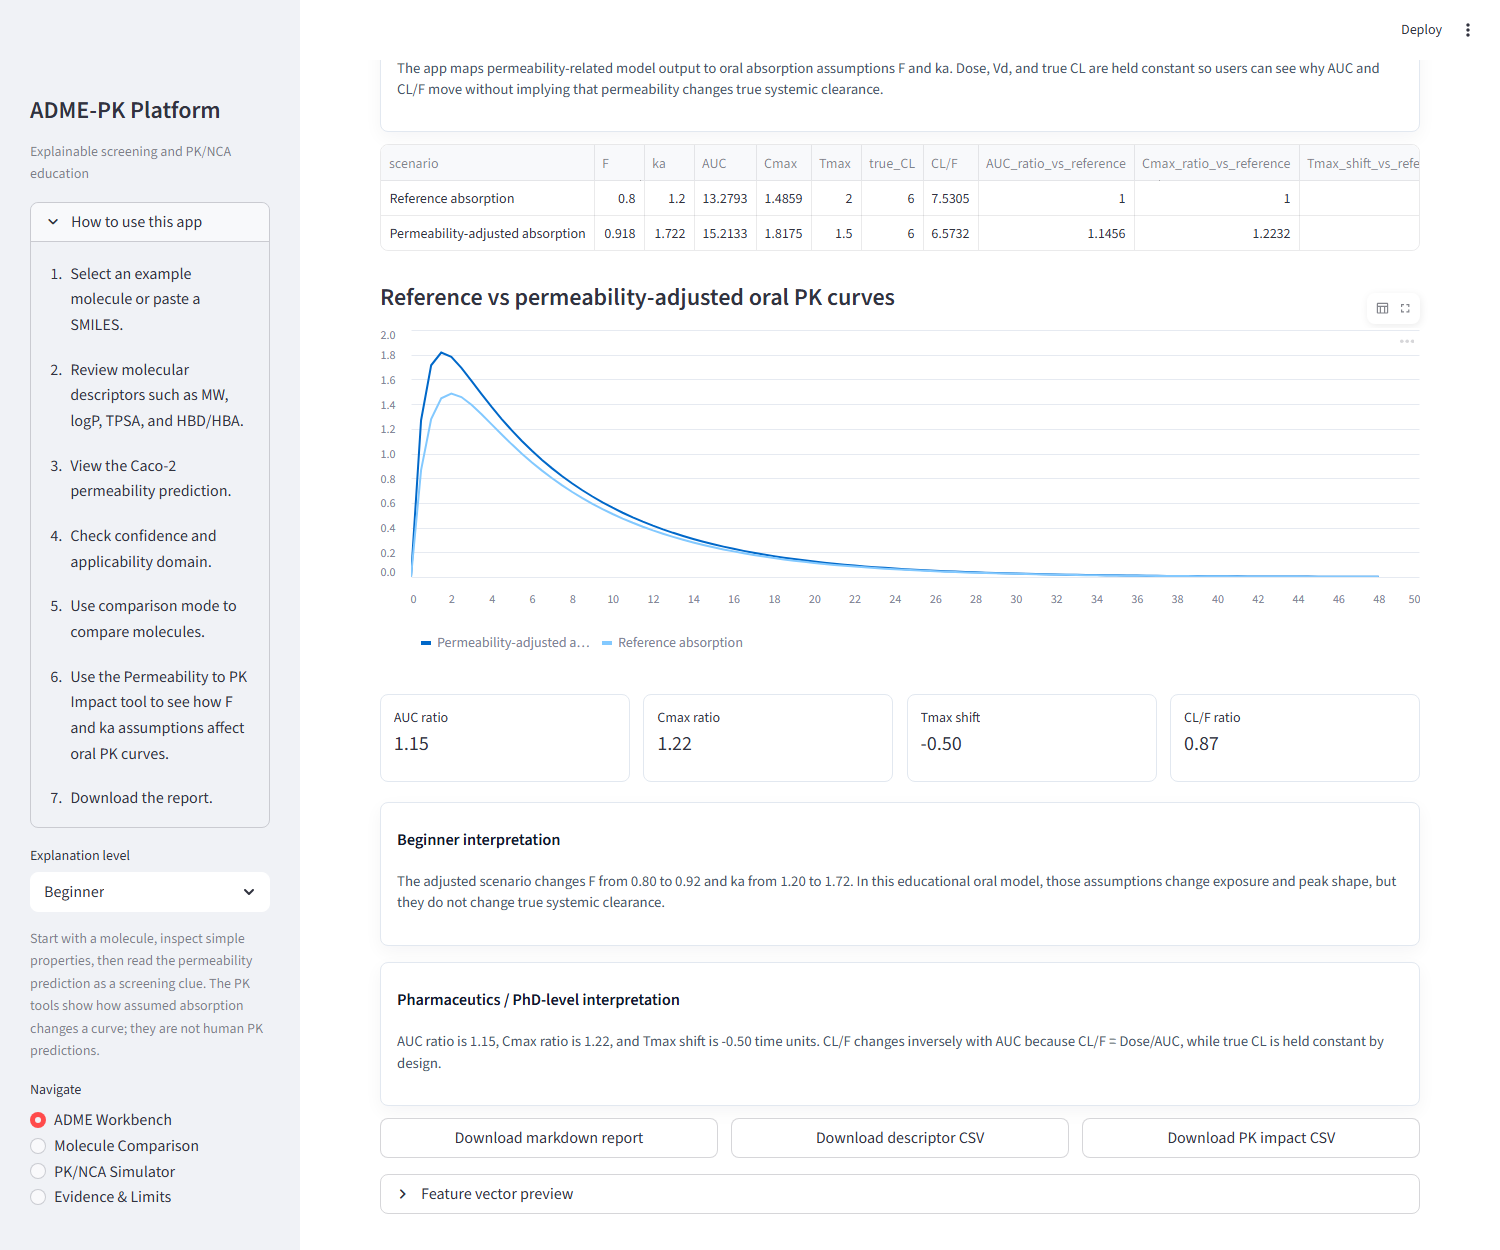
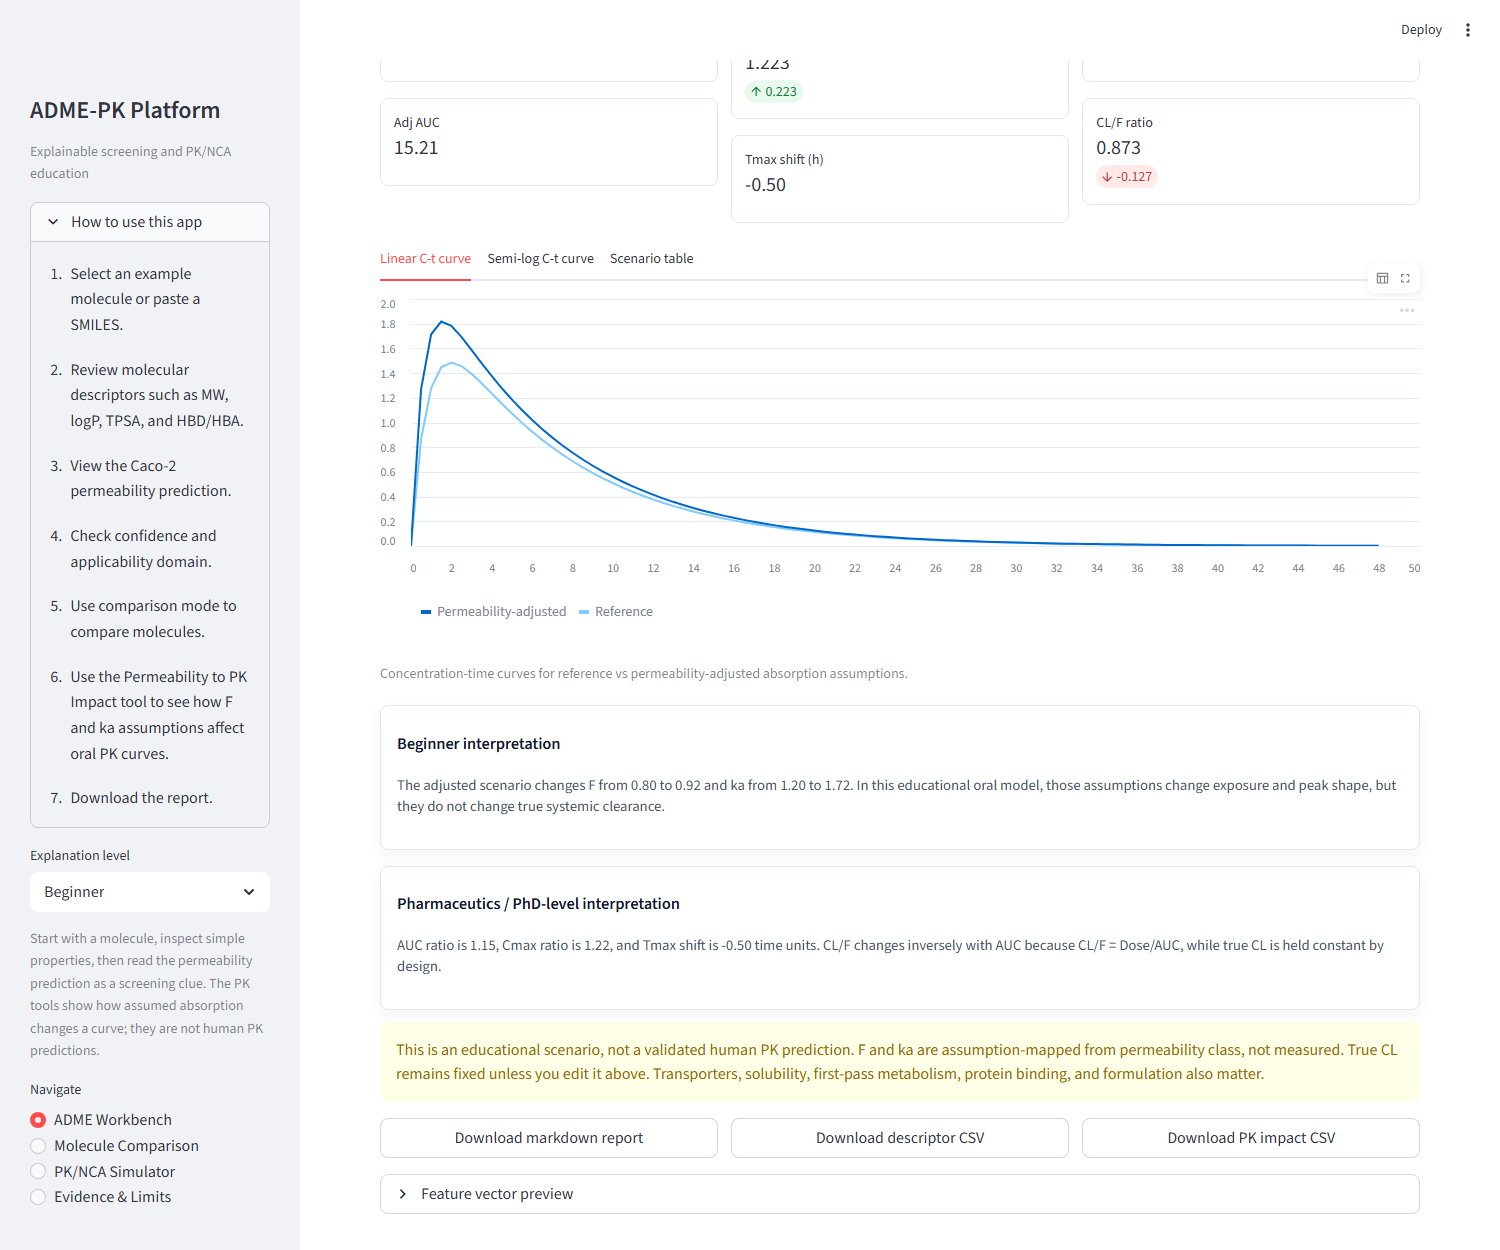
Refine app into professional pharma-style ADME PK platform

diff --git a/scripts/capture_streamlit_screenshots.py b/scripts/capture_streamlit_screenshots.py
@@ -59,8 +59,12 @@ def click_tab(page: Page, name: str) -> None:
 
 
 def navigate(page: Page, label: str) -> None:
-    page.get_by_text(label, exact=True).click(timeout=15000)
-    page.wait_for_timeout(2500)
+    # Try radio button first, then fall back to plain text click
+    try:
+        page.get_by_role("radio", name=re.compile(f"^{re.escape(label)}$")).click(timeout=6000)
+    except Exception:
+        page.get_by_text(label, exact=True).first.click(timeout=15000)
+    page.wait_for_timeout(3500)
 
 
 def expand_if_collapsed(page: Page, label: str) -> None:
@@ -158,8 +162,16 @@ def main() -> None:
 
             navigate(page, "ADME Workbench")
             click_tab(page, "PK Impact")
+            page.wait_for_timeout(1200)
             capture(page, "11_permeability_to_pk_impact.png", issues)
-            scroll_to_text(page, "Reference vs permeability-adjusted oral PK curves")
+            # Click the "Linear C-t curve" tab to show the concentration-time curves
+            try:
+                page.get_by_role("tab", name=re.compile("Linear C-t curve")).click(timeout=8000)
+                page.wait_for_timeout(1000)
+            except Exception:
+                pass
+            scroll_to_text(page, "Editable scenario parameters")
+            page.wait_for_timeout(600)
             capture(page, "12_pk_impact_comparison_curves.png", issues, full_page=False)
 
             page.goto(BASE_URL, wait_until="domcontentloaded")

diff --git a/app/streamlit_app.py b/app/streamlit_app.py
@@ -1201,16 +1201,16 @@ def render_comparison_mode() -> None:
         return
 
     display_table = _format_comparison_table(comparison)
-    st.dataframe(
-        display_table.style.applymap(
-            lambda value: "background-color: #dcfce7; color: #166534;" if value == "high permeability class" else (
-                "background-color: #fee2e2; color: #991b1b;" if value == "low permeability class" else ""
-            ),
-            subset=["Predicted class"],
-        ),
-        hide_index=True,
-        use_container_width=True,
+    _style_fn = lambda value: (
+        "background-color: #dcfce7; color: #166534;" if value == "high permeability class"
+        else ("background-color: #fee2e2; color: #991b1b;" if value == "low permeability class" else "")
     )
+    try:
+        # pandas >= 2.1: applymap was renamed to map
+        _styled = display_table.style.map(_style_fn, subset=["Predicted class"])
+    except AttributeError:
+        _styled = display_table.style.applymap(_style_fn, subset=["Predicted class"])
+    st.dataframe(_styled, hide_index=True, use_container_width=True)
 
     chart_data = comparison.set_index("molecule")
     chart_cols = st.columns(7)

diff --git a/docs/screenshots/README.md b/docs/screenshots/README.md
@@ -1,37 +1,49 @@
 # Screenshot Index
 
-Screenshots generated from the Explainable AI ADME-PK Platform after the full professional refinement pass (v2).
+Fresh screenshots captured from the live Streamlit app (v2 refinement pass).
+All 15 screenshots passed automated content checks — no error text, no missing artifacts, no broken cards.
 
-## Regeneration instructions
+## Regeneration
 
 ```bash
-# Start the app in one terminal
-.venv/Scripts/streamlit.exe run app/streamlit_app.py
+# Terminal 1 — start app
+.venv/Scripts/streamlit.exe run app/streamlit_app.py --server.port 8507 --server.headless true
 
-# In another terminal, generate screenshots
+# Terminal 2 — capture
 .venv/Scripts/python.exe scripts/capture_streamlit_screenshots.py
 ```
 
 ## Screenshot manifest
 
-| Screenshot | App section shown | What a reviewer should notice | Recommended use |
+| Screenshot | Section | What a reviewer should notice | Best use |
 |---|---|---|---|
-| `01_home_dashboard.png` | Home dashboard | Pharma-style hero, workflow cards, metric summary, and scientific boundary banner. | GitHub README, recruiter demo |
-| `02_how_to_use_and_app_overview.png` | How-to-use and app overview | 7-step beginner workflow, scientific grounding, and expandable guides. | GitHub README, student onboarding |
-| `03_molecule_input_aspirin.png` | Aspirin molecule profile | SVG rendering, canonical SMILES, medicinal chemistry teaching note, key properties, and status pills. | PI review, recruiter demo |
-| `04_descriptor_summary.png` | Descriptor and ADME signals | Descriptor table, explanation cards for MW/logP/TPSA/HBD/HBA, medicinal chemistry interpretation, and Lipinski flags. | PK/ADME reviewer |
-| `05_permeability_prediction.png` | Caco-2 permeability prediction | Prediction card, probability gauge, biological interpretation, dataset context, and decision-support text. | AI-health recruiter, PI review |
-| `06_confidence_and_uncertainty.png` | Confidence and uncertainty | Confidence score, entropy, reliability explanation, and boundary card. | Model-risk review |
-| `07_applicability_domain.png` | Applicability domain | Tanimoto similarity gauge, nearest training SMILES, domain category, and experimental follow-up recommendation. | Academic reviewer |
-| `08_explainable_ai.png` | Explainable AI evidence | Descriptor driver table with chemical interpretation; SHAP disclaimer and optional saved SHAP figures. | Explainability portfolio |
-| `09_molecule_comparison.png` | Molecule comparison mode | Aspirin, caffeine, ibuprofen, metformin, and propranolol; MW/logP/TPSA/confidence/domain/F/ka bar charts; auto-interpretation. | LinkedIn, recruiter demo |
-| `10_pk_nca_simulator.png` | Educational PK/NCA simulator | Drug teaching profile loader, preset selector, parameter controls, 7 NCA metric cards, linear/semilog plots. | PI review, PK teaching |
-| `11_permeability_to_pk_impact.png` | Permeability to PK Impact — centerpiece | Molecule summary, editable Dose/Vd/CL/F/ka sliders, reference vs adjusted PK curve overlay. | PK/ADME reviewer |
-| `12_pk_impact_comparison_curves.png` | PK impact comparison curves | Linear and semi-log concentration-time curve tabs; true CL fixed annotation; scenario table. | PK teaching, PI review |
-| `13_equations_iv_oral_ivive.png` | Equations, IV/oral, IVIVE | AUC_oral = F × Dose / CL; CL/F; kel; route-specific NCA distinctions; IVIVE limitations. | Academic review |
-| `14_report_download_section.png` | Report download section | Structured markdown report with molecule profile, descriptors, prediction, AUC ratios, CL/F, equations, and references. | GitHub README, reviewer handoff |
-| `15_scientific_limitations_and_reviewer_summary.png` | Scientific limits and reviewer summary | Reviewer summary cards for AI/ML recruiter, comp. pharm., and academic PI; external validation roadmap. | PI review, scientific rigor |
+| `01_home_dashboard.png` | Home dashboard | Pharma-style hero, 6 workflow cards, 5 metric chips, scientific boundary banner | GitHub README, recruiter demo |
+| `02_how_to_use_and_app_overview.png` | How-to-use / app overview | 7-step beginner workflow expanded, scientific guide, equation panel, IVIVE note | Student onboarding, LinkedIn |
+| `03_molecule_input_aspirin.png` | Aspirin molecule profile | SVG structure, canonical SMILES, medicinal-chemistry teaching note, status pills (logP / polarity / domain), key properties | PI review, recruiter demo |
+| `04_descriptor_summary.png` | Descriptor and ADME signals | Descriptor table, MW/logP/TPSA/HBD/HBA explanation cards, bar chart, Lipinski flags | PK/ADME reviewer |
+| `05_permeability_prediction.png` | Caco-2 permeability prediction | Prediction card, probability progress bar, biological interpretation, dataset context, decision-support text | AI-health recruiter, PI review |
+| `06_confidence_and_uncertainty.png` | Confidence and uncertainty | High-confidence category, score, entropy, reliability explanation cards | Model-risk review |
+| `07_applicability_domain.png` | Applicability domain | Tanimoto similarity 0.36 (Borderline), nearest training SMILES, domain-shift warning, experimental recommendation | Academic reviewer |
+| `08_explainable_ai.png` | Explainable AI evidence | Descriptor driver table with chemical interpretation; SHAP disclaimer | Explainability portfolio |
+| `09_molecule_comparison.png` | Molecule Comparison Mode | Color-coded permeability class table (green/red), 7 bar charts (MW/LogP/TPSA/Confidence/Domain/Suggested F/Suggested ka), auto-interpretation paragraph | LinkedIn, recruiter demo |
+| `10_pk_nca_simulator.png` | Educational PK/NCA simulator | Concentration-time plot, 7 NCA metric cards (Cmax/Tmax/AUCinf/t½/MRT/CL-F/Vss), route-specific warnings | PI review, PK teaching |
+| `11_permeability_to_pk_impact.png` | Permeability → PK Impact centerpiece (top) | Selected molecule banner, core equations card, default assumption mapping, 7 editable parameter controls, 9 exposure metric cards (True CL fixed, AUC ratio, Cmax ratio, Tmax shift, CL/F ratio) | PK/ADME reviewer |
+| `12_pk_impact_comparison_curves.png` | PK Impact — curve and scenario panels | Editable scenario parameters, metric cards with delta indicators, linear C-t curve overlay (Reference vs Permeability-adjusted), beginner and PhD interpretation cards | PK teaching, PI review |
+| `13_equations_iv_oral_ivive.png` | Equations, IV/oral dosing, IVIVE | PK equations expander, IV vs oral dosing explanation, IVIVE requirements and limitations | Academic review |
+| `14_report_download_section.png` | PK Impact — curves + report download | Concentration-time curve (two scenarios), beginner + PhD interpretation, warning banner, three download buttons (markdown report, descriptor CSV, PK impact CSV) | GitHub README, reviewer handoff |
+| `15_scientific_limitations_and_reviewer_summary.png` | Evidence and responsible use | Three audience-specific reviewer cards (AI/ML recruiter, computational pharmacology, academic PI), external validation roadmap | PI review, scientific rigor |
+
+## Known UI notes (post-audit)
+
+| Item | Status |
+|---|---|
+| Comparison table color-coded rows | Fixed (`applymap` → `map` for pandas compatibility) |
+| PK Impact curve screenshot distinct from metrics screenshot | Fixed (capture script now scrolls to parameter controls) |
+| All 15 screenshots non-empty and content-checked | Confirmed |
+| `applymap` pandas deprecation error in comparison mode | Fixed in `app/streamlit_app.py` |
 
 ## Scientific boundary
 
-Screenshots show Caco-2 permeability prediction and educational PK/NCA simulation only. They do not show validated human PK, clinical, regulatory, safety, efficacy, or dose prediction. The permeability-to-PK impact section shows educational absorption assumption exploration with true CL held constant by design.
+Screenshots show Caco-2 permeability prediction and educational PK/NCA simulation only.
+They do not show validated human PK, clinical, regulatory, safety, efficacy, or dose prediction.
+True systemic CL is held fixed by design in the permeability-to-PK impact section.
